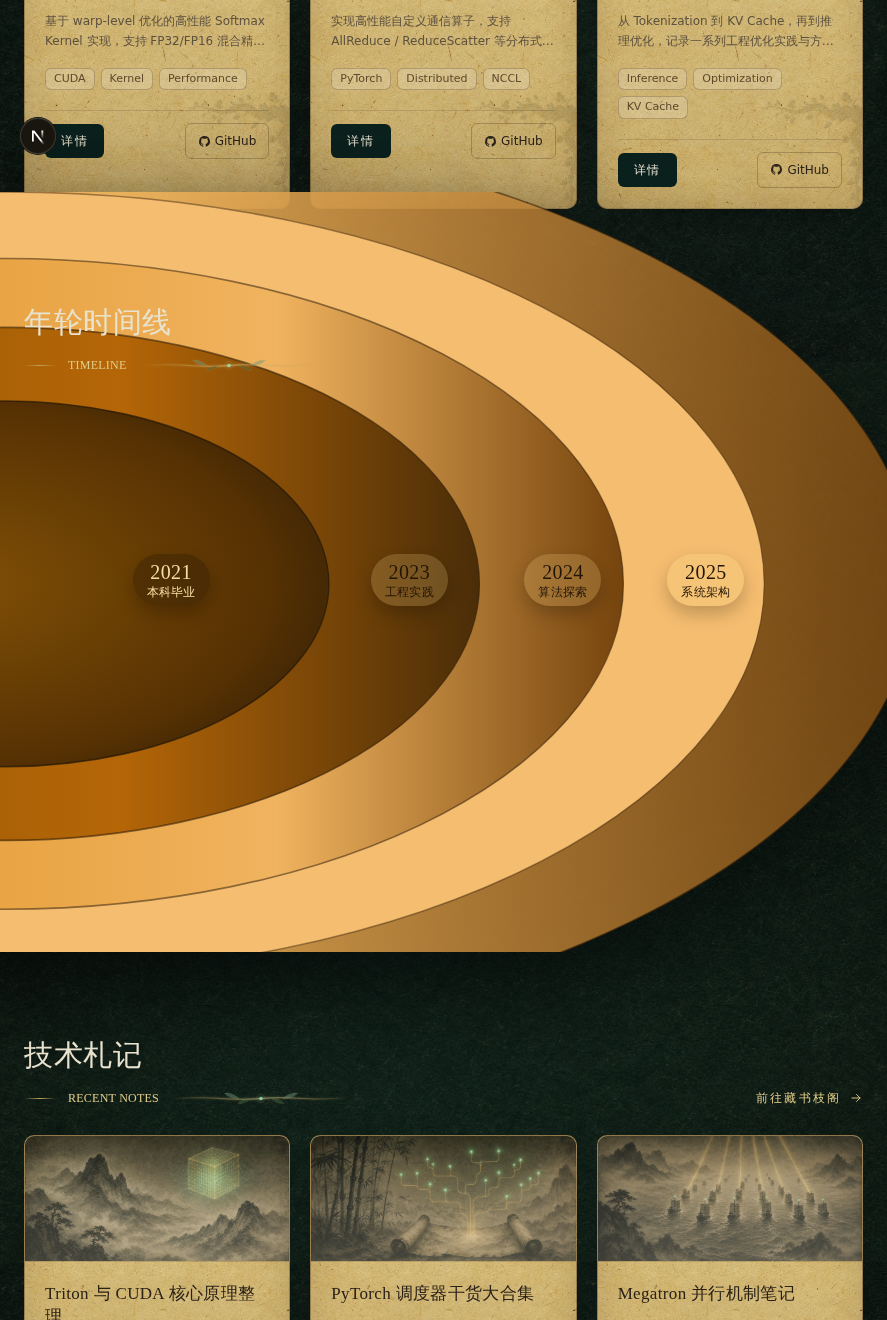
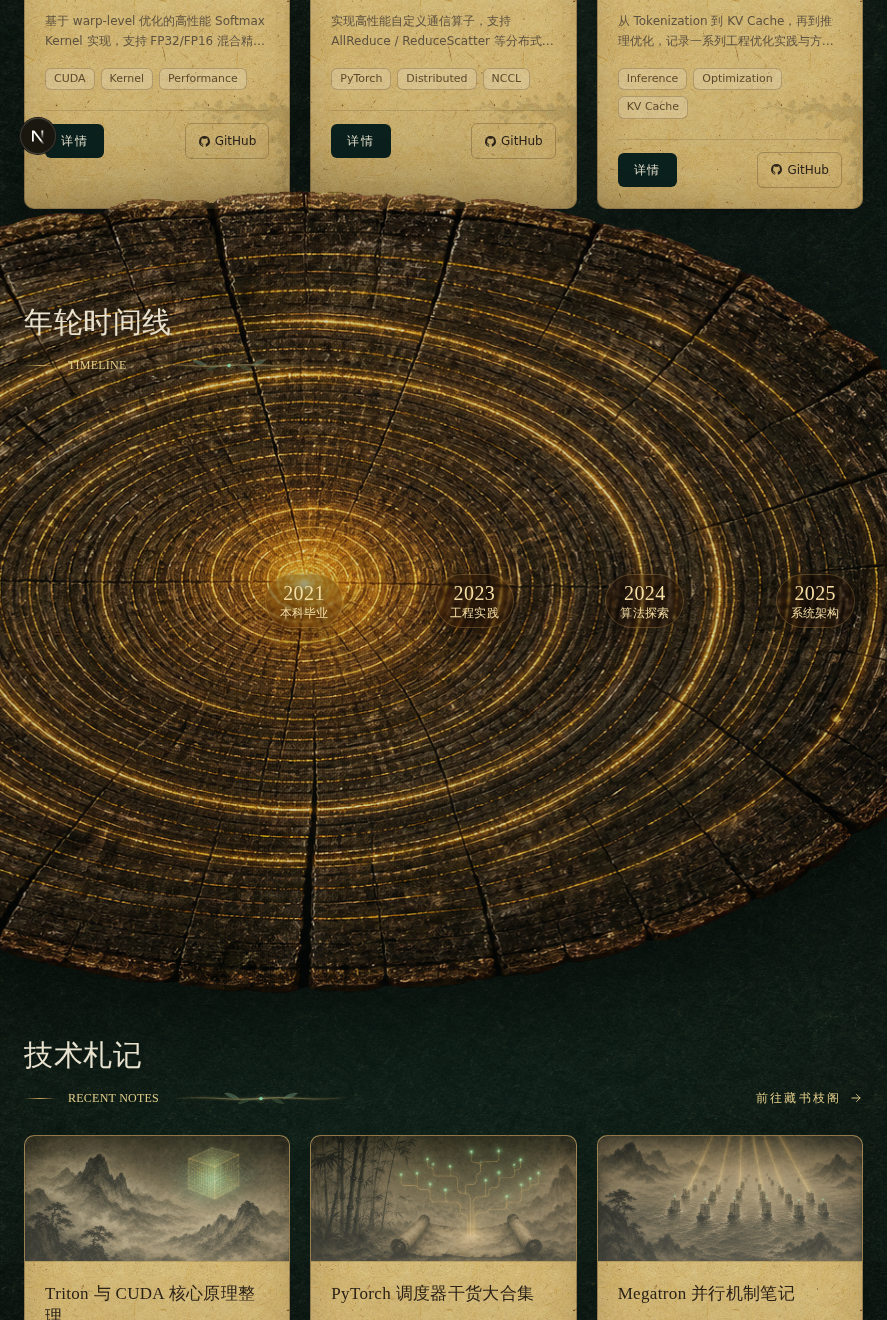
fix(web): use generated timeline ring asset

diff --git a/web/src/components/Timeline.tsx b/web/src/components/Timeline.tsx
@@ -1,11 +1,12 @@
+import Image from "next/image";
 import { SectionHeader } from "./SectionHeader";
 import { getTimelineContent } from "@/lib/content";
 
 const markerLayout = [
-  { left: "29%", top: "51%" },
-  { left: "51.5%", top: "51%" },
-  { left: "66%", top: "51%" },
-  { left: "79.5%", top: "51%" },
+  { left: "50%", top: "51%" },
+  { left: "62%", top: "51%" },
+  { left: "74%", top: "51%" },
+  { left: "86%", top: "51%" },
 ] as const;
 
 type TimelineItem = ReturnType<typeof getTimelineContent>["items"][number];
@@ -40,43 +41,23 @@ export function Timeline() {
 
 function YearRingField({ items }: { items: TimelineItem[] }) {
   return (
-    <div className="pointer-events-none absolute -left-[45vw] right-[-12vw] top-[-158px] z-0 h-[670px] md:-left-[160px] md:right-[-60px] md:top-[-190px] md:h-[760px] lg:-left-[210px] lg:right-[-110px]">
-      <div className="absolute inset-0 bg-[radial-gradient(ellipse_at_18%_50%,rgba(244,195,106,.26),rgba(91,54,10,.13)_44%,transparent_73%)] blur-2xl" aria-hidden />
-      <svg className="absolute inset-0 h-full w-full drop-shadow-[0_38px_58px_rgba(0,0,0,.68)]" viewBox="0 0 1280 640" preserveAspectRatio="none" fill="none" aria-hidden>
-        <defs>
-          <linearGradient id="timelineOuter" x1="0" y1="0" x2="1" y2="0">
-            <stop stopColor="#f7d18d" stopOpacity=".98" />
-            <stop offset=".56" stopColor="#f0b45d" stopOpacity=".92" />
-            <stop offset="1" stopColor="#8f5412" stopOpacity=".76" />
-          </linearGradient>
-          <linearGradient id="timelineMid" x1="0" y1="0" x2="1" y2="0">
-            <stop stopColor="#d98308" />
-            <stop offset=".72" stopColor="#f0b35f" />
-            <stop offset="1" stopColor="#75440d" />
-          </linearGradient>
-          <linearGradient id="timelineInner" x1="0" y1="0" x2="1" y2="0">
-            <stop stopColor="#815006" />
-            <stop offset=".62" stopColor="#b56607" />
-            <stop offset="1" stopColor="#4a2d08" />
-          </linearGradient>
-          <radialGradient id="timelineCore" cx="42%" cy="50%" r="74%">
-            <stop stopColor="#815006" />
-            <stop offset=".66" stopColor="#563103" />
-            <stop offset="1" stopColor="#261908" />
-          </radialGradient>
-        </defs>
-
-        <ellipse cx="170" cy="330" rx="1100" ry="392" fill="url(#timelineOuter)" stroke="#36210a" strokeOpacity=".58" strokeWidth="1.5" />
-        <ellipse cx="170" cy="330" rx="918" ry="330" fill="#f5bd70" stroke="#3a250c" strokeOpacity=".46" strokeWidth="1.35" />
-        <ellipse cx="170" cy="330" rx="748" ry="274" fill="url(#timelineMid)" stroke="#2c1b07" strokeOpacity=".52" strokeWidth="1.35" />
-        <ellipse cx="170" cy="330" rx="574" ry="216" fill="url(#timelineInner)" stroke="#2c1b07" strokeOpacity=".58" strokeWidth="1.35" />
-        <ellipse cx="170" cy="330" rx="392" ry="154" fill="url(#timelineCore)" stroke="#1f1507" strokeOpacity=".66" strokeWidth="1.45" />
-      </svg>
+    <div className="pointer-events-none absolute -left-[64vw] top-[-180px] z-0 h-[700px] w-[1180px] max-w-none md:-left-[430px] md:top-[-210px] md:h-[840px] md:w-[1420px] lg:-left-[360px] lg:w-[1520px]">
+      <div
+        aria-hidden
+        className="absolute inset-y-[10%] left-[18%] right-[4%] rounded-[999px] bg-[radial-gradient(ellipse,rgba(224,204,136,.18),rgba(156,240,189,.07)_48%,transparent_72%)] blur-xl"
+      />
+      <Image
+        src="/assets/lydt/timeline/timeline-large-tree-ring-disk.png"
+        alt=""
+        fill
+        sizes="1520px"
+        className="object-fill opacity-[.82] drop-shadow-[0_36px_60px_rgba(0,0,0,.72)]"
+        aria-hidden
+      />
 
       <ol className="absolute inset-0 z-10 hidden md:block">
         {items.map((item, index) => {
           const layout = markerLayout[index % markerLayout.length];
-          const isInner = index === 0;
 
           return (
             <li
@@ -85,9 +66,9 @@ function YearRingField({ items }: { items: TimelineItem[] }) {
               style={layout}
               aria-label={`${item.year} ${item.title}: ${item.note}`}
             >
-              <div className={`inline-flex flex-col items-center rounded-full px-3.5 py-2 shadow-[0_8px_18px_rgba(0,0,0,.22)] ${isInner ? "bg-[rgba(44,27,5,.38)] text-[#f6dea4]" : "bg-[rgba(255,226,157,.18)] text-[#241606]"}`}>
-                <span className="font-display text-[20px] leading-none tracking-[0.08em] lg:text-[22px]">{item.year}</span>
-                <span className="mt-1 font-display text-[12px] leading-none tracking-[0.1em] lg:text-[13px]">{item.title}</span>
+              <div className="inline-flex flex-col items-center rounded-full border border-[rgba(244,195,106,.24)] bg-[rgba(22,13,4,.34)] px-3.5 py-2 text-[#f6dea4] shadow-[0_8px_20px_rgba(0,0,0,.32)] backdrop-blur-[1px]">
+                <span className="font-display text-[20px] leading-none tracking-[0.08em] drop-shadow-[0_1px_4px_rgba(0,0,0,.72)] lg:text-[22px]">{item.year}</span>
+                <span className="mt-1 font-display text-[12px] leading-none tracking-[0.1em] drop-shadow-[0_1px_4px_rgba(0,0,0,.72)] lg:text-[13px]">{item.title}</span>
               </div>
             </li>
           );
